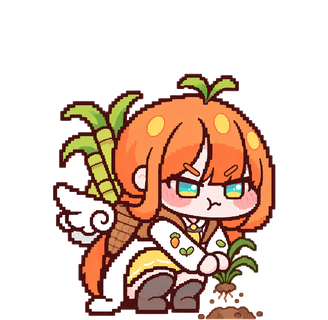
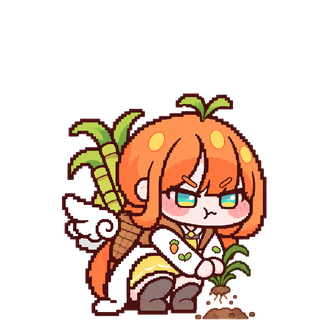
엉덩방아 프레임 크기·위치를 스탠딩에 맞춤(머리 가운데 기준)

Changed region(s): [[0.1524, 0.2188, 0.8537, 1.0]]

diff --git a/tools/build_web.py b/tools/build_web.py
@@ -17,7 +17,7 @@ SIZE = 512
 # 땅에서 올라오는 중간 자세는 머리가 스탠딩보다 낮아야 올라오는 느낌이 난다
 DROP = {}
 # 머리 폭 자동 측정이 안 맞는 프레임은 눈으로 맞춘 배율을 쓴다(스탠딩 머리 크기 기준)
-SCALE = {"m05_harvest": 0.92, "m05b_harvest": 0.89, "k05_harvest": 0.97, "h01_notice": 0.98, "h03_popout": 0.85, "i02a_rub": 1.0, "i02_rub": 1.0}
+SCALE = {"fall_0": 0.83, "fall_1": 0.83, "fall_2": 0.83, "wn_pop": 0.92, "m05_harvest": 0.92, "m05b_harvest": 0.89, "k05_harvest": 0.97, "h01_notice": 0.98, "h03_popout": 0.85, "i02a_rub": 1.0, "i02_rub": 1.0}
 
 # 모션 = (이름, 설명, [(파일, 보여줄 시간 ms, 바닥 맞춤 여부)])
 MOTIONS = [
@@ -116,6 +116,18 @@ def head_w(im):
     return max(ws) if ws else None
 
 
+# 흙먼지·팔 때문에 외곽 상자가 흔들리는 프레임: 그린 자리 그대로 두고, 머리 가운데만 스탠딩에 맞춘다
+KEEP_POS = {"fall_0", "fall_1", "fall_2"}
+
+
+def head_cx(im):
+    px = im.load()
+    xs = [x for y in range(0, int(im.height * 0.45), 3) for x in range(0, im.width, 3)
+          if px[x, y][0] > 225 and 95 < px[x, y][1] < 175 and px[x, y][2] < 90]
+    xs.sort()
+    return (xs[len(xs) // 10] + xs[len(xs) * 9 // 10]) / 2 if xs else im.width / 2
+
+
 def bbox(im):
     g = im.convert("L").point(lambda v: 255 if v < 235 else 0)
     return g.getbbox()
@@ -127,6 +139,7 @@ def main():
     mb = bbox(m)
     m_cx, m_bot = (mb[0] + mb[2]) // 2, mb[3]
     m_head = head_w(m)
+    m_hx = head_cx(m)
     data, done = [], {}
     for mid, title, seq in MOTIONS:
         frames = []
@@ -148,7 +161,9 @@ def main():
                     im.paste(big, (round((b0[0] + b0[2]) / 2 - cx), round(b0[3] - by)))
                 canvas = Image.new("RGB", (1254, 1254), "white")
                 b = bbox(im)
-                if ground and name != "master":
+                if name in KEEP_POS:
+                    dx = round(m_hx - head_cx(im)); dy = 0
+                elif ground and name != "master":
                     dx = m_cx - (b[0] + b[2]) // 2
                     dy = m_bot - b[3]
                 else:

diff --git a/tools/export_overlay.py b/tools/export_overlay.py
@@ -55,7 +55,10 @@ def aligned(name, m_cx, m_bot, m_head):
         im.paste(big, (round((b0[0] + b0[2]) / 2 - cx), round(b0[3] - by)))
     b = bw.bbox(im)
     canvas = Image.new("RGB", (1254, 1254), "white")
-    canvas.paste(im, (m_cx - (b[0] + b[2]) // 2, m_bot - b[3]))
+    if name in bw.KEEP_POS:  # 흙먼지 때문에 외곽 상자가 흔들리는 프레임: 그린 자리 그대로, 머리 가운데만 맞춤
+        canvas.paste(im, (round(bw.head_cx(load("master").resize((1254, 1254))) - bw.head_cx(im)), 0))
+    else:
+        canvas.paste(im, (m_cx - (b[0] + b[2]) // 2, m_bot - b[3]))
     return canvas
 
 
